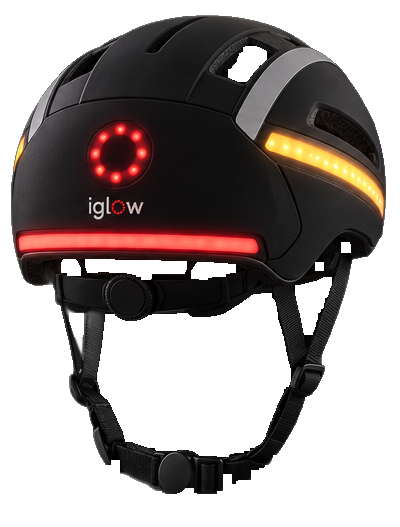
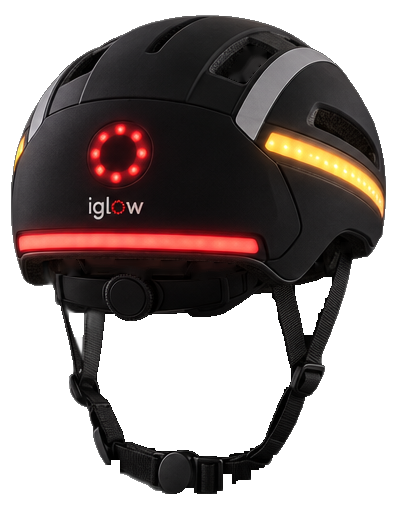
fix: patch leftover white holes on helmet shell, nest helmet closer to vest collar

diff --git a/src/components/IllustratedParagraph/IllustratedParagraph.js b/src/components/IllustratedParagraph/IllustratedParagraph.js
@@ -75,7 +75,7 @@ function IllustratedParagraph({
           <Box
             component='img'
             src={imgSrc}
-            sx={{ width: '80%', mt: 2, zIndex: 1, position: 'relative' }}
+            sx={{ width: '80%', mt: '-6%', zIndex: 1, position: 'relative' }}
           />
         </Box>
       ) : (
